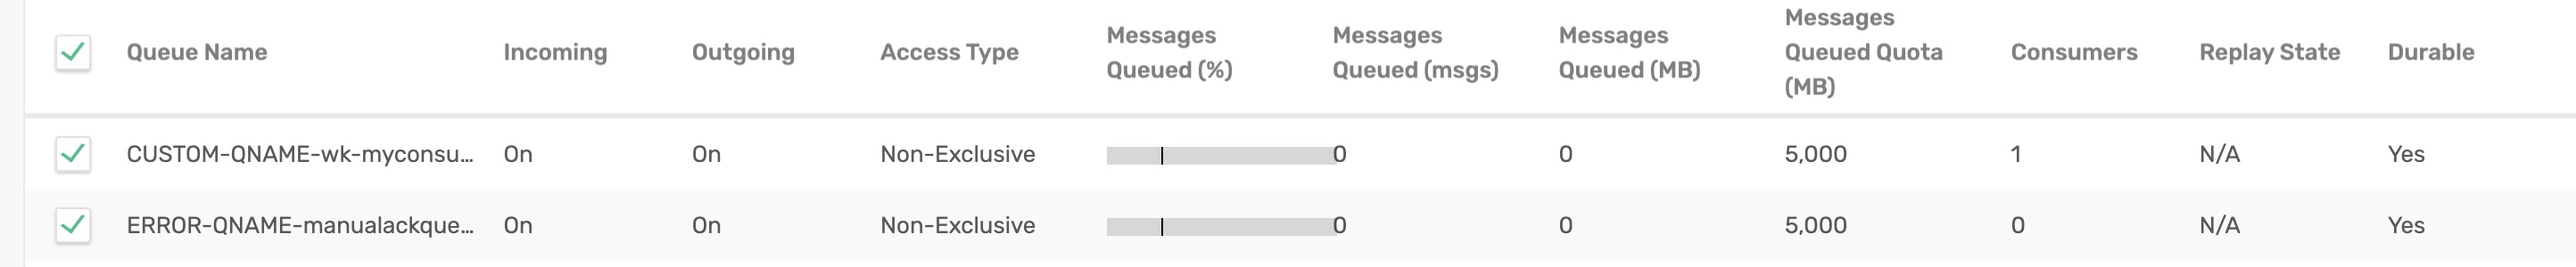
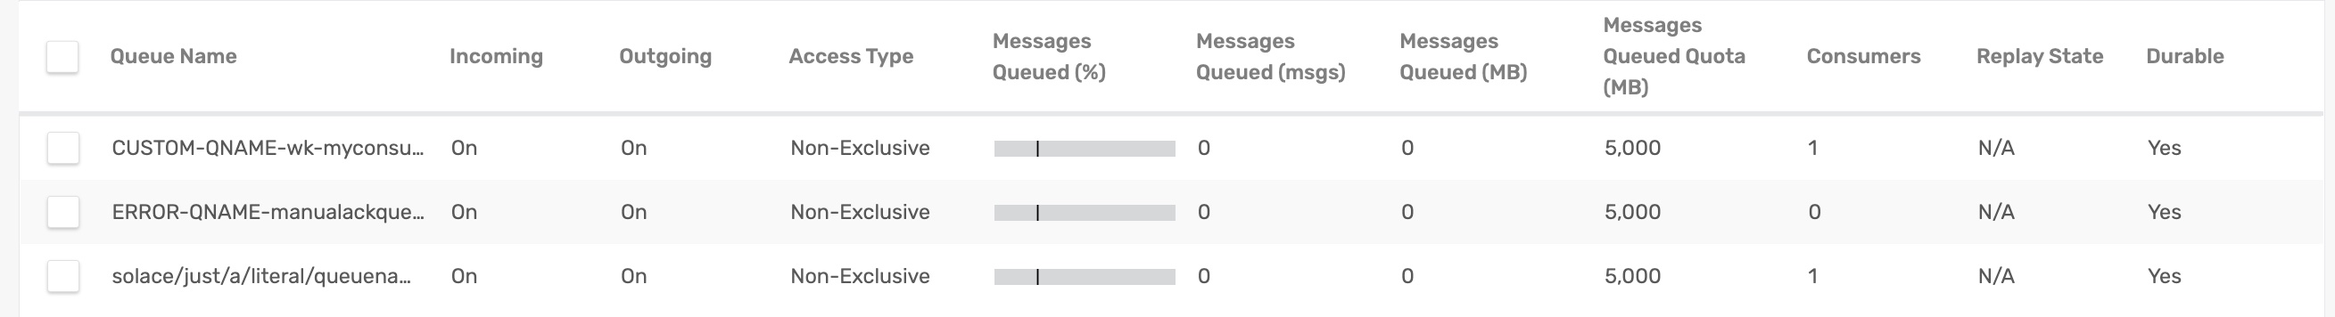
Updated README with example for literal queue name example.

diff --git a/cloud-stream-custom-queue-names/README.md b/cloud-stream-custom-queue-names/README.md
@@ -28,6 +28,11 @@ The default SpEL expression for creating the consumer group’s queue name is he
 destination.trim().replaceAll('[*>]', '_')
 ```
 
+You can also specify a literal name as the queue name in `queueNameExpression` property. The SpEL expects literal names to be quoted, and the quotes need to be escaped.
+
+```
+queueNameExpression: ‘’’solace/just/a/literal/queuename’’’
+```
 
 ## Running the application
 
@@ -50,5 +55,9 @@ Generated Queue name:
 Generated Error Queue name:
 
 <p align="center"><img width="640" alt="auth" src="images/generated-names-3.jpg"></p>
+
+Generated Literal Queue name (hard-coded):
+
+<p align="center"><img width="640" alt="auth" src="images/generated-names-4.jpg"></p>
 
 🔥 Yes, Now you can name your queue and error queue names as you wish! 🔥
